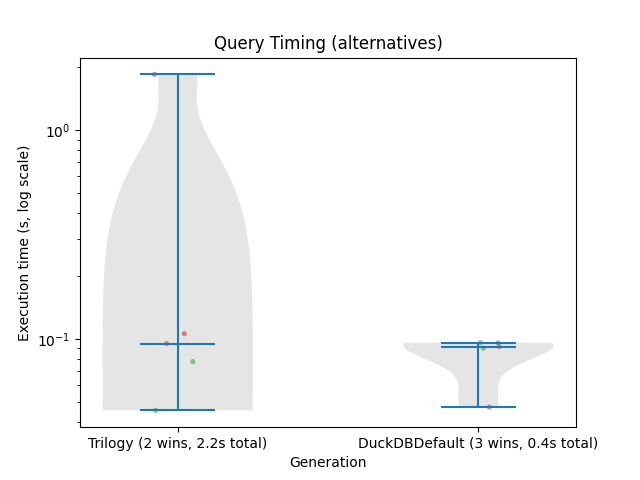
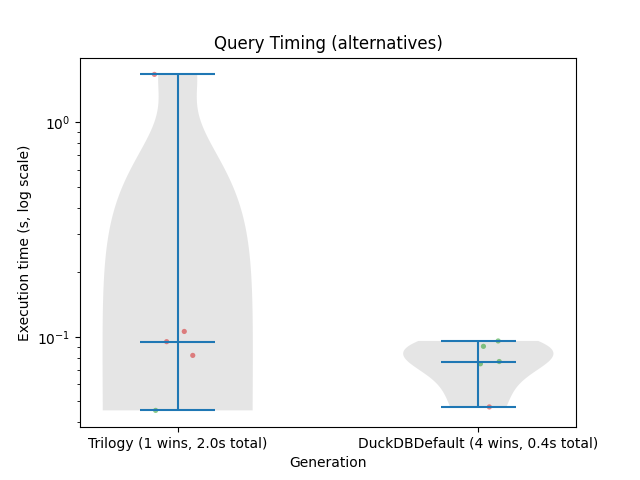
more_fixes

diff --git a/tests/modeling/tpc_ds_duckdb/tcp-ds-summary.md b/tests/modeling/tpc_ds_duckdb/tcp-ds-summary.md
@@ -25,11 +25,11 @@ Top 5 queries where PreQL is longest vs reference SQL
 | 35 | 2,119 | 1,745 | +374 |
 | 86 | 1,200 | 847 | +353 |
 
-Trilogy execution is faster than the reference SQL for 42/99 queries. Total Trilogy execution time is 17.893s vs 81.004s reference SQL time.
+Trilogy execution is faster than the reference SQL for 38/99 queries. Total Trilogy execution time is 18.479s vs 80.998s reference SQL time.
 
 | Performance metric | P10 | P50 | P90 |
 | --- | ---: | ---: | ---: |
-| Trilogy - Reference SQL seconds | -0.141s | +0.003s | +0.104s |
+| Trilogy - Reference SQL seconds | -0.125s | +0.004s | +0.104s |
 | Trilogy vs Reference SQL | -56.5% | +8.1% | +111.9% |
 | Trilogy / Reference SQL | 0.43x | 1.08x | 2.12x |
 
@@ -37,11 +37,11 @@ Top 5 queries where reference SQL is fastest vs Trilogy
 
 | Query | Trilogy s | Reference SQL s | Trilogy - Reference SQL |
 | --- | ---: | ---: | ---: |
+| 85 | 1.853s | 0.964s | +0.889s |
 | 37 | 1.476s | 1.145s | +0.331s |
 | 78 | 0.571s | 0.249s | +0.322s |
 | 67 | 1.551s | 1.266s | +0.285s |
 | 69 | 0.507s | 0.249s | +0.258s |
-| 66 | 0.474s | 0.220s | +0.255s |
 
 ## Alternative Queries
 
@@ -61,18 +61,19 @@ Top 5 queries where PreQL is longest vs reference SQL
 | 30.alt | 1,773 | 1,507 | +266 |
 | 97.2 | 1,262 | 1,159 | +103 |
 
-Trilogy execution is faster than the reference SQL for 2/5 queries. Total Trilogy execution time is 2.173s vs 0.421s reference SQL time.
+Trilogy execution is faster than the reference SQL for 1/5 queries. Total Trilogy execution time is 1.996s vs 0.385s reference SQL time.
 
 | Performance metric | P10 | P50 | P90 |
 | --- | ---: | ---: | ---: |
-| Trilogy - Reference SQL seconds | -0.009s | +0.005s | +1.056s |
-| Trilogy vs Reference SQL | -10.5% | +5.2% | +1101.7% |
-| Trilogy / Reference SQL | 0.89x | 1.05x | 12.02x |
+| Trilogy - Reference SQL seconds | +0.001s | +0.005s | +0.960s |
+| Trilogy vs Reference SQL | -0.1% | +6.8% | +1281.0% |
+| Trilogy / Reference SQL | 1.00x | 1.07x | 13.81x |
 
 Top 5 queries where reference SQL is fastest vs Trilogy
 
 | Query | Trilogy s | Reference SQL s | Trilogy - Reference SQL |
 | --- | ---: | ---: | ---: |
-| 97.1 | 1.849s | 0.096s | +1.753s |
+| 97.1 | 1.667s | 0.075s | +1.593s |
 | 2.1 | 0.106s | 0.096s | +0.010s |
+| 97.2 | 0.082s | 0.077s | +0.005s |
 | 2.2 | 0.095s | 0.090s | +0.005s |